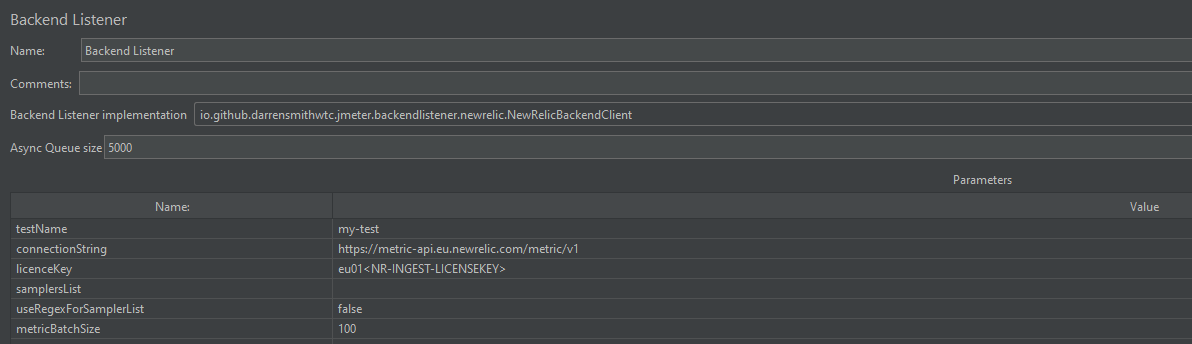
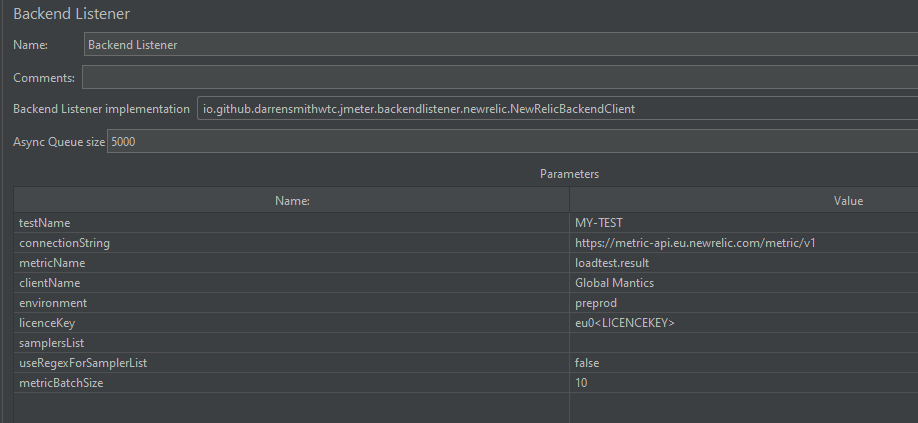
Additional Metric Attributes + Release
* Add Environment & Client Name Attributes
* Make metricName configuratble
* Add initial release process scaffolding

diff --git a/src/main/java/io/github/darrensmithwtc/jmeter/backendlistener/newrelic/NewRelicBackendClient.java b/src/main/java/io/github/darrensmithwtc/jmeter/backendlistener/newrelic/NewRelicBackendClient.java
@@ -41,6 +41,9 @@ public class NewRelicBackendClient extends AbstractBackendListenerClient {
     private static final String KEY_HEADERS_PREFIX = "aih.";
     private static final String KEY_RESPONSE_HEADERS = "responseHeaders";
     private static final String KEY_METRIC_BATCH_SIZE = "metricBatchSize";
+    private static final String KEY_CLIENT_NAME = "clientName";
+    private static final String KEY_ENVIRONMENT_NAME = "environment";
+    private static final String KEY_METRIC_NAME = "metricName";
 
     /**
      * Default argument values.
@@ -50,6 +53,9 @@ public class NewRelicBackendClient extends AbstractBackendListenerClient {
     private static final String DEFAULT_SAMPLERS_LIST = "";
     private static final boolean DEFAULT_USE_REGEX_FOR_SAMPLER_LIST = false;
     private static final String DEFAULT_METRIC_BATCH_SIZE = "10";
+    private static final String DEFAULT_METRIC_NAME = "loadtest.result";
+    private static final String DEFAULT_CLIENT_NAME = "unknown";
+    private static final String DEFAULT_ENVIRONMENT_NAME = "unknown";
 
     /**
      * Separator for samplers list.
@@ -57,17 +63,17 @@ public class NewRelicBackendClient extends AbstractBackendListenerClient {
     private static final String SEPARATOR = ";";
 
     /**
+     * Metric name
+     */
+    private String metricName;
+
+    /**
      * Name of the test.
      */
     private String testName;
 
     /**
-     * Licence Key
-     */
-    private String licenseKey;
-
-    /**
-     * Metric BAtch Size
+     * Metric Batch Size
      */
     private Integer metricBatchSize;
 
@@ -125,6 +131,9 @@ public class NewRelicBackendClient extends AbstractBackendListenerClient {
         Arguments arguments = new Arguments();
         arguments.addArgument(KEY_TEST_NAME, DEFAULT_TEST_NAME);
         arguments.addArgument(KEY_CONNECTION_STRING, DEFAULT_CONNECTION_STRING);
+        arguments.addArgument(KEY_METRIC_NAME, DEFAULT_METRIC_NAME);
+        arguments.addArgument(KEY_CLIENT_NAME, DEFAULT_CLIENT_NAME);
+        arguments.addArgument(KEY_ENVIRONMENT_NAME, DEFAULT_ENVIRONMENT_NAME);
         arguments.addArgument(KEY_LICENCE_KEY, "");
         arguments.addArgument(KEY_SAMPLERS_LIST, DEFAULT_SAMPLERS_LIST);
         arguments.addArgument(KEY_USE_REGEX_FOR_SAMPLER_LIST, Boolean.toString(DEFAULT_USE_REGEX_FOR_SAMPLER_LIST));
@@ -135,10 +144,12 @@ public class NewRelicBackendClient extends AbstractBackendListenerClient {
 
     @Override
     public void setupTest(BackendListenerContext context) throws Exception {
+        metricName = context.getParameter(KEY_METRIC_NAME, DEFAULT_METRIC_NAME);
         testName = context.getParameter(KEY_TEST_NAME, DEFAULT_TEST_NAME);
         metricBatchSize = Integer.parseInt(context.getParameter(KEY_METRIC_BATCH_SIZE, DEFAULT_METRIC_BATCH_SIZE));
-        licenseKey = context.getParameter(KEY_LICENCE_KEY);
+
         samplersList = context.getParameter(KEY_SAMPLERS_LIST, DEFAULT_SAMPLERS_LIST).trim();
+        String licenseKey = context.getParameter(KEY_LICENCE_KEY);
         String connectionString = context.getParameter(KEY_CONNECTION_STRING);
         useRegexForSamplerList = context.getBooleanParameter(KEY_USE_REGEX_FOR_SAMPLER_LIST,
                 DEFAULT_USE_REGEX_FOR_SAMPLER_LIST);
@@ -161,7 +172,7 @@ public class NewRelicBackendClient extends AbstractBackendListenerClient {
         sender = MetricBatchSender
                 .create(factory.configureWith(licenseKey).useLicenseKey(true).endpoint(endpoint).build());
 
-        metricBuffer = new MetricBuffer(getCommonAttributes());
+        metricBuffer = new MetricBuffer(getCommonAttributes(context));
 
         samplersToFilter = new HashSet<String>();
         if (!useRegexForSamplerList) {
@@ -173,9 +184,12 @@ public class NewRelicBackendClient extends AbstractBackendListenerClient {
         }
     }
 
-    private Attributes getCommonAttributes() {
+    private Attributes getCommonAttributes(BackendListenerContext context) {
         Attributes defaultProperties = new Attributes();
         defaultProperties.put("ingestProvider", "JMETER");
+        defaultProperties.put(KEY_CLIENT_NAME, context.getParameter(KEY_CLIENT_NAME));
+        defaultProperties.put(KEY_ENVIRONMENT_NAME, context.getParameter(KEY_ENVIRONMENT_NAME));
+
         return defaultProperties;
     }
 
@@ -215,7 +229,7 @@ public class NewRelicBackendClient extends AbstractBackendListenerClient {
 
         Long duration = sr.getTime();
 
-        Gauge metric = new Gauge("wtc.loadtest.result", duration, System.currentTimeMillis(), properties);
+        Gauge metric = new Gauge(metricName, duration, System.currentTimeMillis(), properties);
 
         metricBuffer.addMetric(metric);
 

diff --git a/src/test/java/io/github/darrensmithwtc/jmeter/backendlistener/newrelic/TestNewRelicBackendClient.java b/src/test/java/io/github/darrensmithwtc/jmeter/backendlistener/newrelic/TestNewRelicBackendClient.java
@@ -1,6 +1,5 @@
 package io.github.darrensmithwtc.jmeter.backendlistener.newrelic;
 
-// import com.microsoft.applicationinsights.TelemetryClient;
 import org.apache.jmeter.config.Arguments;
 import org.apache.jmeter.samplers.SampleResult;
 import org.apache.jmeter.visualizers.backend.BackendListenerContext;
@@ -16,6 +15,9 @@ import java.util.ArrayList;
 import java.util.HashSet;
 import java.util.List;
 
+import com.newrelic.telemetry.metrics.MetricBatchSender;
+import com.newrelic.telemetry.metrics.MetricBuffer;
+
 import static junit.framework.TestCase.fail;
 import static org.junit.jupiter.api.Assertions.assertNotNull;
 import static org.mockito.Mockito.*;
@@ -24,7 +26,10 @@ import static org.mockito.Mockito.*;
 public class TestNewRelicBackendClient {
 
     @Mock
-    // private TelemetryClient telemetryClient;
+    private MetricBatchSender sender;
+
+    @Mock
+    private MetricBuffer metricBuffer;
 
     @InjectMocks
     private final NewRelicBackendClient client = new NewRelicBackendClient();
@@ -38,6 +43,7 @@ public class TestNewRelicBackendClient {
         context = new BackendListenerContext(args);
         Whitebox.setInternalState(client, "testName", "test-1");
         Whitebox.setInternalState(client, "samplersToFilter", new HashSet<>());
+        Whitebox.setInternalState(client, "licenceKey", "euABCXYZ");
     }
 
     @Test
@@ -48,7 +54,7 @@ public class TestNewRelicBackendClient {
 
     @Test
     public void testHandleSampleResults() {
-        // doNothing().when(telemetryClient).trackRequest(any());
+        doNothing().when(sender);
 
         SampleResult sr = new SampleResult();
         List<SampleResult> list = new ArrayList<SampleResult>();

diff --git a/README.md b/README.md
@@ -47,14 +47,17 @@ To make JMeter send test result metrics to New Relic, in your **Test Pane**, rig
 **Thread Group** > Add > Listener > Backend Listener, and choose `io.github.darrensmithwtc.jmeter.backendlistener.newrelic.NewRelicBackendClient` as `Backend Listener Implementation`.
 Then, in the Parameters table, configure the following attributes.
 
-| Attribute                | Description                                                                                                                                                                                                                                         | Required |
-| ------------------------ | --------------------------------------------------------------------------------------------------------------------------------------------------------------------------------------------------------------------------------------------------- | -------- |
-| _connectionString_       | The fully qualified URL [endpoint](https://docs.newrelic.com/docs/using-new-relic/welcome-new-relic/get-started/our-eu-us-region-data-centers/) of the New Relic Metrics Provider.                                                                  | Yes      |
-| _testName_               | Name of the test. This value is used to differentiate metrics across test runs or plans in New Relic and allow you to filter them.                                                                                                                  | Yes      |
-| _licenceKey_             | String containing your new relic ingestion key                                                                                                                                                                                                      | Yes      |
-| _samplersList_           | Optional list of samplers separated by a semi-colon (`;`) that the listener will collect and send metrics to New Relic. If the list is empty, the listener will not filter samplers and send metrics from all of them. Defaults to an empty string. | No       |
-| _useRegexForSamplerList_ | If set to `true` the `samplersList` will be evaluated as a regex to filter samplers. Defaults to `false`.                                                                                                                                           | No       |
-| _responseHeaders_        | Optional list of response headers spearated by a semi-colon (`;`) that the listener will collect and send values to New Relic.                                                                                                                      | No       |
+| Attribute                | Description                                                                                                                                                                                                           | Required | Default                                      |
+| ------------------------ | --------------------------------------------------------------------------------------------------------------------------------------------------------------------------------------------------------------------- | -------- | -------------------------------------------- |
+| _connectionString_       | The fully qualified URL [endpoint](https://docs.newrelic.com/docs/using-new-relic/welcome-new-relic/get-started/our-eu-us-region-data-centers/) of the New Relic Metrics Provider.                                    | Yes      | https://metric-api.eu.newrelic.com/metric/v1 |
+| _testName_               | Name of the test. This value is used to differentiate metrics across test runs or plans in New Relic and allow you to filter them.                                                                                    | Yes      | jmeter                                       |
+| _metricName_             | String containing the metric name you want to use in New Relic.                                                                                                                                                       | Yes      | loadtest.result                              |
+| _clientName_             | String containing the client name you want to add as an attribute to the metrics in New Relic.                                                                                                                        | Yes      | unknown                                      |
+| _environmentName_        | String containing the environment name you want to add as an attribute to the metrics in New Relic.                                                                                                                   | Yes      | unknown                                      |
+| _licenceKey_             | String containing your new relic ingestion                                                                                                                                                                            | Yes      | [empty-string]                               |
+| _samplersList_           | Optional list of samplers separated by a semi-colon (`;`) that the listener will collect and send metrics to New Relic. If the list is empty, the listener will not filter samplers and send metrics from all of them | No       | [empty-string]                               |
+| _useRegexForSamplerList_ | If set to `true` the `samplersList` will be evaluated as a regex to filter samplers.                                                                                                                                  | No       | false                                        |
+| _responseHeaders_        | Optional list of response headers spearated by a semi-colon (`;`) that the listener will collect and send values to New Relic.                                                                                        | No       | [empty-string]                               |
 
 _Example of configuration:_
 
